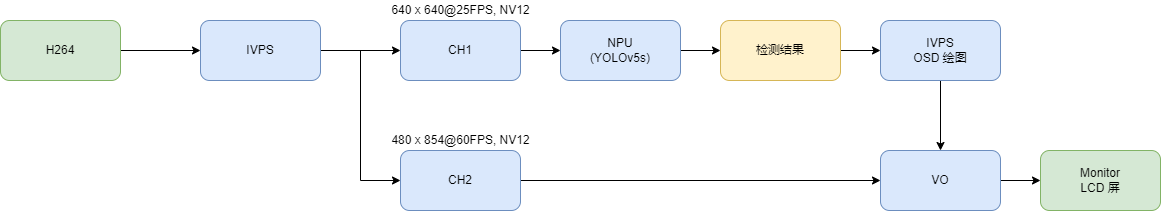
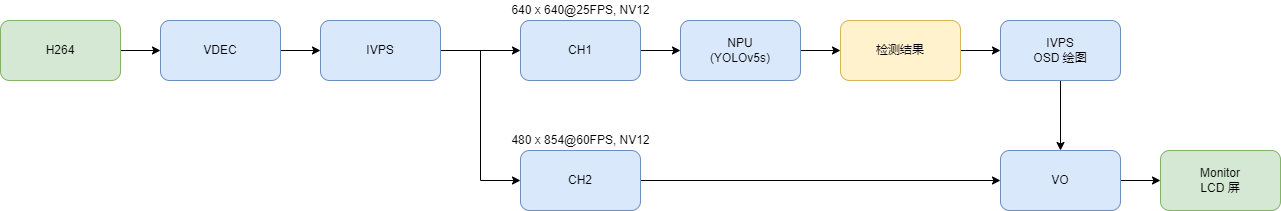
add rtsp input sample (#45)

diff --git a/examples/sample_rtsp_ivps_joint_vo/sample_rtsp_ivps_joint_vo_new.cpp b/examples/sample_rtsp_ivps_joint_vo/sample_rtsp_ivps_joint_vo_new.cpp
@@ -25,6 +25,8 @@
 #include "../utilities/osd_utils.h"
 #include "../utilities/sample_log.h"
 
+#include "RTSP/include/RTSPClient.h"
+
 #include "ax_ivps_api.h"
 #include "npu_cv_kit/ax_npu_imgproc.h"
 
@@ -140,153 +142,29 @@ void ai_inference_func(pipeline_buffer_t *buff)
     }
 }
 
-#define NAL_CODED_SLICE_CRA 21
-#define NAL_CODED_SLICE_IDR 5
-
-typedef struct _SAMPLE_BSPARSER
+static void frameHandlerFunc(void *arg, RTP_FRAME_TYPE frame_type, int64_t timestamp, unsigned char *buf, int len)
 {
-    FILE *fInput;
-    AX_S32 sSize;
-} SAMPLE_BSPARSER_T;
+    pipeline_t *pipe = (pipeline_t *)arg;
+    pipeline_buffer_t buf_h264;
 
-typedef enum _SAMPLE_BSBOUNDAR_YTYPE
-{
-    BSPARSER_NO_BOUNDARY = 0,
-    BSPARSER_BOUNDARY = 1,
-    BSPARSER_BOUNDARY_NON_SLICE_NAL = 2
-} SAMPLE_BSBOUNDAR_YTYPE_E;
-
-static AX_S32 FindNextStartCode(SAMPLE_BSPARSER_T *tBsInfo, AX_U32 *uZeroCount)
-{
-    AX_S32 i;
-    AX_S32 sStart = ftello(tBsInfo->fInput);
-    *uZeroCount = 0;
-
-    /* Scan for the beginning of the packet. */
-    for (i = 0; i < tBsInfo->sSize && i < tBsInfo->sSize - sStart; i++)
+    switch (frame_type)
     {
-        AX_U8 byte;
-        AX_S32 ret_val = fgetc(tBsInfo->fInput);
-        if (ret_val == EOF)
-            return ftello(tBsInfo->fInput);
-        byte = (unsigned char)ret_val;
-        switch (byte)
-        {
-        case 0:
-            *uZeroCount = *uZeroCount + 1;
-            break;
-        case 1:
-            /* If there's more than three leading zeros, consider only three
-             * of them to be part of this packet and the rest to be part of
-             * the previous packet. */
-            if (*uZeroCount > 3)
-                *uZeroCount = 3;
-            if (*uZeroCount >= 2)
-            {
-                return ftello(tBsInfo->fInput) - *uZeroCount - 1;
-            }
-            *uZeroCount = 0;
-            break;
-        default:
-            *uZeroCount = 0;
-            break;
-        }
+    case FRAME_TYPE_VIDEO:
+        buf_h264.p_vir = buf;
+        buf_h264.n_size = len;
+        user_input(pipe, &buf_h264);
+        printf("\rbuf len : %d", len);
+        fflush(stdout);
+        break;
+    case FRAME_TYPE_AUDIO:
+        printf("audio\n");
+        break;
+    case FRAME_TYPE_ETC:
+        printf("etc\n");
+        break;
+    default:
+        break;
     }
-    return ftello(tBsInfo->fInput);
-}
-
-AX_U32 CheckAccessUnitBoundaryH264(FILE *fInput, AX_S32 sNalBegin)
-{
-    AX_U32 uBoundary = BSPARSER_NO_BOUNDARY;
-    AX_U32 uNalType, uVal;
-
-    AX_S32 sStart = ftello(fInput);
-
-    fseeko(fInput, sNalBegin, SEEK_SET);
-    uNalType = (getc(fInput) & 0x1F);
-
-    if (uNalType > NAL_CODED_SLICE_IDR)
-        uBoundary = BSPARSER_BOUNDARY_NON_SLICE_NAL;
-    else
-    {
-        uVal = getc(fInput);
-        /* Check if first mb in slice is 0(ue(v)). */
-        if (uVal & 0x80)
-            uBoundary = BSPARSER_BOUNDARY;
-    }
-
-    fseeko(fInput, sStart, SEEK_SET);
-    return uBoundary;
-}
-
-AX_S32 StreamParserReadFrameH264(SAMPLE_BSPARSER_T *tBsInfo, AX_U8 *sBuffer,
-                                 AX_S32 *sSize)
-{
-    AX_S32 sBegin, sEnd, sStrmLen;
-    AX_U32 sReadLen;
-    AX_U32 uZeroCount = 0;
-
-    AX_U32 uTmp = 0;
-    AX_S32 sNalBegin;
-    /* TODO(min): to extract exact one frame instead of a NALU */
-
-    sBegin = FindNextStartCode(tBsInfo, &uZeroCount);
-    sNalBegin = sBegin + uZeroCount + 1;
-    uTmp = CheckAccessUnitBoundaryH264(tBsInfo->fInput, sNalBegin);
-    sEnd = sNalBegin = FindNextStartCode(tBsInfo, &uZeroCount);
-
-    if (sEnd != sBegin && uTmp != BSPARSER_BOUNDARY_NON_SLICE_NAL)
-    {
-        do
-        {
-            sEnd = sNalBegin;
-            sNalBegin += uZeroCount + 1;
-
-            /* Check access unit boundary for next NAL */
-            uTmp = CheckAccessUnitBoundaryH264(tBsInfo->fInput, sNalBegin);
-            if (uTmp == BSPARSER_NO_BOUNDARY)
-            {
-                sNalBegin = FindNextStartCode(tBsInfo, &uZeroCount);
-            }
-            else if (uTmp == BSPARSER_BOUNDARY_NON_SLICE_NAL)
-            {
-                do
-                {
-                    sNalBegin = FindNextStartCode(tBsInfo, &uZeroCount);
-                    if (sEnd == sNalBegin)
-                        break;
-                    sEnd = sNalBegin;
-                    sNalBegin += uZeroCount + 1;
-                    uTmp = CheckAccessUnitBoundaryH264(tBsInfo->fInput, sNalBegin);
-                } while (uTmp == BSPARSER_BOUNDARY_NON_SLICE_NAL);
-
-                if (sEnd == sNalBegin)
-                {
-                    break;
-                }
-                else if (uTmp == BSPARSER_NO_BOUNDARY)
-                {
-                    sNalBegin = FindNextStartCode(tBsInfo, &uZeroCount);
-                }
-            }
-        } while (uTmp != BSPARSER_BOUNDARY);
-    }
-
-    if (sEnd == sBegin)
-    {
-        return 0; /* End of stream */
-    }
-    fseeko(tBsInfo->fInput, sBegin, SEEK_SET);
-    if (*sSize < sEnd - sBegin)
-    {
-        *sSize = sEnd - sBegin;
-        return 0; /* Insufficient buffer size */
-    }
-
-    sStrmLen = sEnd - sBegin;
-    sReadLen = fread(sBuffer, 1, sStrmLen, tBsInfo->fInput);
-
-    return sReadLen;
 }
 
 // 允许外部调用
@@ -304,7 +182,7 @@ static AX_VOID PrintHelp(char *testApp)
     printf("\t-p: yolov5 param file path\n");
     printf("\t-m: Joint model path\n");
 
-    printf("\t-f: h264 file\n");
+    printf("\t-f: rtsp url\n");
 
     printf("\t-r: Sensor&Video Framerate (framerate need supported by sensor), default is 25\n");
 
@@ -331,7 +209,7 @@ int main(int argc, char *argv[])
     AX_S32 isExit = 0, i, ch;
     AX_S32 s32Ret = 0;
     COMMON_SYS_ARGS_T tCommonArgs = {0};
-    char h26xfile[512];
+    char rtsp_url[512];
     signal(SIGPIPE, SIG_IGN);
     signal(SIGINT, __sigExit);
 
@@ -342,8 +220,8 @@ int main(int argc, char *argv[])
         switch (ch)
         {
         case 'f':
-            strcpy(h26xfile, optarg);
-            ALOGI("file input %s", h26xfile);
+            strcpy(rtsp_url, optarg);
+            ALOGI("rtsp url : %s", rtsp_url);
             break;
         case 'm':
             strcpy(gModels.MODEL_PATH, optarg);
@@ -498,45 +376,23 @@ int main(int argc, char *argv[])
     }
 
     {
-        SAMPLE_BSPARSER_T tStreamInfo = {0};
-        int sSize = 3 * 1024 * 1024;
-        std::vector<unsigned char> cbuffer(sSize);
-        // unsigned char *cbuffer = new unsigned char[1024 * 1024];
-        pipeline_buffer_t buf_h26x = {0};
-        buf_h26x.p_vir = cbuffer.data();
-
-        FILE *fInput = NULL;
-        fInput = fopen(h26xfile, "rb");
-        if (fInput == NULL)
+        RTSPClient *rtspClient = new RTSPClient();
+        if (rtspClient->openURL(rtsp_url, 1, 2) == 0)
         {
-            ALOGE("Unable to open input file\n");
-            goto EXIT_6;
+            if (rtspClient->playURL(frameHandlerFunc, &pipelines[0], NULL, NULL) == 0)
+            {
+                while (!gLoopExit)
+                {
+                    usleep(1000 * 1000);
+                }
+            }
         }
-        fseek(fInput, 0L, SEEK_END);
-        AX_S32 sLen = ftell(fInput);
-        rewind(fInput);
-
-        tStreamInfo.fInput = fInput;
-        tStreamInfo.sSize = sLen;
-
-        AX_U32 sReadLen = 0;
-        while (!gLoopExit)
-        {
-            sReadLen = StreamParserReadFrameH264(&tStreamInfo, cbuffer.data(), &sSize);
-            buf_h26x.p_vir = cbuffer.data();
-            buf_h26x.n_size = sReadLen;
-            if (sReadLen == 0)
-                break;
-            else
-                user_input(&pipelines[0], &buf_h26x);
-            usleep(10 * 1000);
-        }
-        ALOGN("h264 file decode finish,quit the loop");
+        rtspClient->closeURL();
+        delete rtspClient;
         gLoopExit = 1;
         sleep(1);
         pipeline_buffer_t end_buf = {0};
         user_input(&pipelines[0], &end_buf);
-        fclose(fInput);
     }
 
     // s32Ret = SysRun();

diff --git a/README.md b/README.md
@@ -2,6 +2,8 @@
 **AX-Pipeline** 由 **[爱芯元智](https://www.axera-tech.com/)** 主导开发。该项目基于 **AXera-Pi** 展示 **ISP**、**图像处理**、**NPU**、**编码**、**显示** 等功能模块软件调用方法，方便社区开发者进行快速评估和二次开发自己的多媒体应用。
 
 ## 更新日志
+```2022-12-26``` 新增 rtsp 输入的示例代码 [sample_rtsp_ivps_joint_vo](examples/sample_rtsp_ivps_joint_vo)
+
 ```2022-12-26``` 新增人脸识别
 
 ```2022-12-16``` 新增 usb 相机输入的 sample。新增车牌检测、车牌识别，详情请查阅 [ModelZoo](docs/modelzoo.md)
@@ -10,7 +12,7 @@
 
 ```2022-12-09``` 新增简化的 pipeline 构建 api，降低构建 pipeline 的难度，详情请看 [new_pipeline](docs/new_pipeline.md)
 
-```2022-11-29``` 新增人手检测加手势识别，感谢 [FeiGeChuanShu](https://github.com/FeiGeChuanShu)，详情请查阅 [ModelZoo](docs/modelzoo.md)。自适应联机模型输入格式，联机模型现在可以不需要相同的输入色彩空间格式
+```2022-11-29``` 新增人手检测加手势识别，感谢 [FeiGeChuanShu](https://github.com/FeiGeChuanShu)，详情请查阅 [ModelZoo](docs/modelzoo.md)。自适应联机模型输入格式，联级模型现在可以不需要相同的输入色彩空间格式
 
 ```2022-11-24``` 新增爱芯元智开源版本人体检测以及姿态模型
 

diff --git a/examples/sample_rtsp_ivps_joint_vo/README.md b/examples/sample_rtsp_ivps_joint_vo/README.md
@@ -1,0 +1,22 @@
+## 简介
+  通过 RTSP 流媒体输入，实现算力盒子。
+
+## 流程图
+![](../../docs/sample_rtsp_ivps_joint_vo.png)
+
+## 快速体验
+1、准备想要进行推流的 h264 格式的二进制文件，下文用 test.h264
+
+2、打开 [rtsp-simple-server](https://github.com/aler9/rtsp-simple-server/releases/tag/v0.21.0) 选择对应的平台，下载 rtsp-simple-server 可执行文件，并双击或者在命令行执行在后台
+
+3、下载安装 ffmpeg，通过以下命令，将 test.h264 推流
+```
+ffmpeg -re -stream_loop -1 -i test.h264 -rtsp_transport tcp -c copy -f rtsp rtsp://localhost:8554/test
+```
+
+4、假设我们已知 rtsp-simple-server 运行的宿主机的 ip 为 192.168.31.1，并已知爱芯派也在宿主机同一局域网中
+
+5、运行以下命令，进行 rtsp 的取流、解码、推理的 pipeline
+```
+./sample_rtsp_ivps_joint_vo_new -f rtsp://192.168.31.1:8554/test -p config/yolov5s.json
+```

diff --git a/examples/sample_v4l2_ivps_joint_vo/README.md b/examples/sample_v4l2_ivps_joint_vo/README.md
@@ -1,2 +1,5 @@
 ## 简介
   通过 v4l2 jpeg 输入，实现算力盒子。
+
+## 流程图
+![](../../docs/sample_v4l2_ivps_joint_vo.png)
